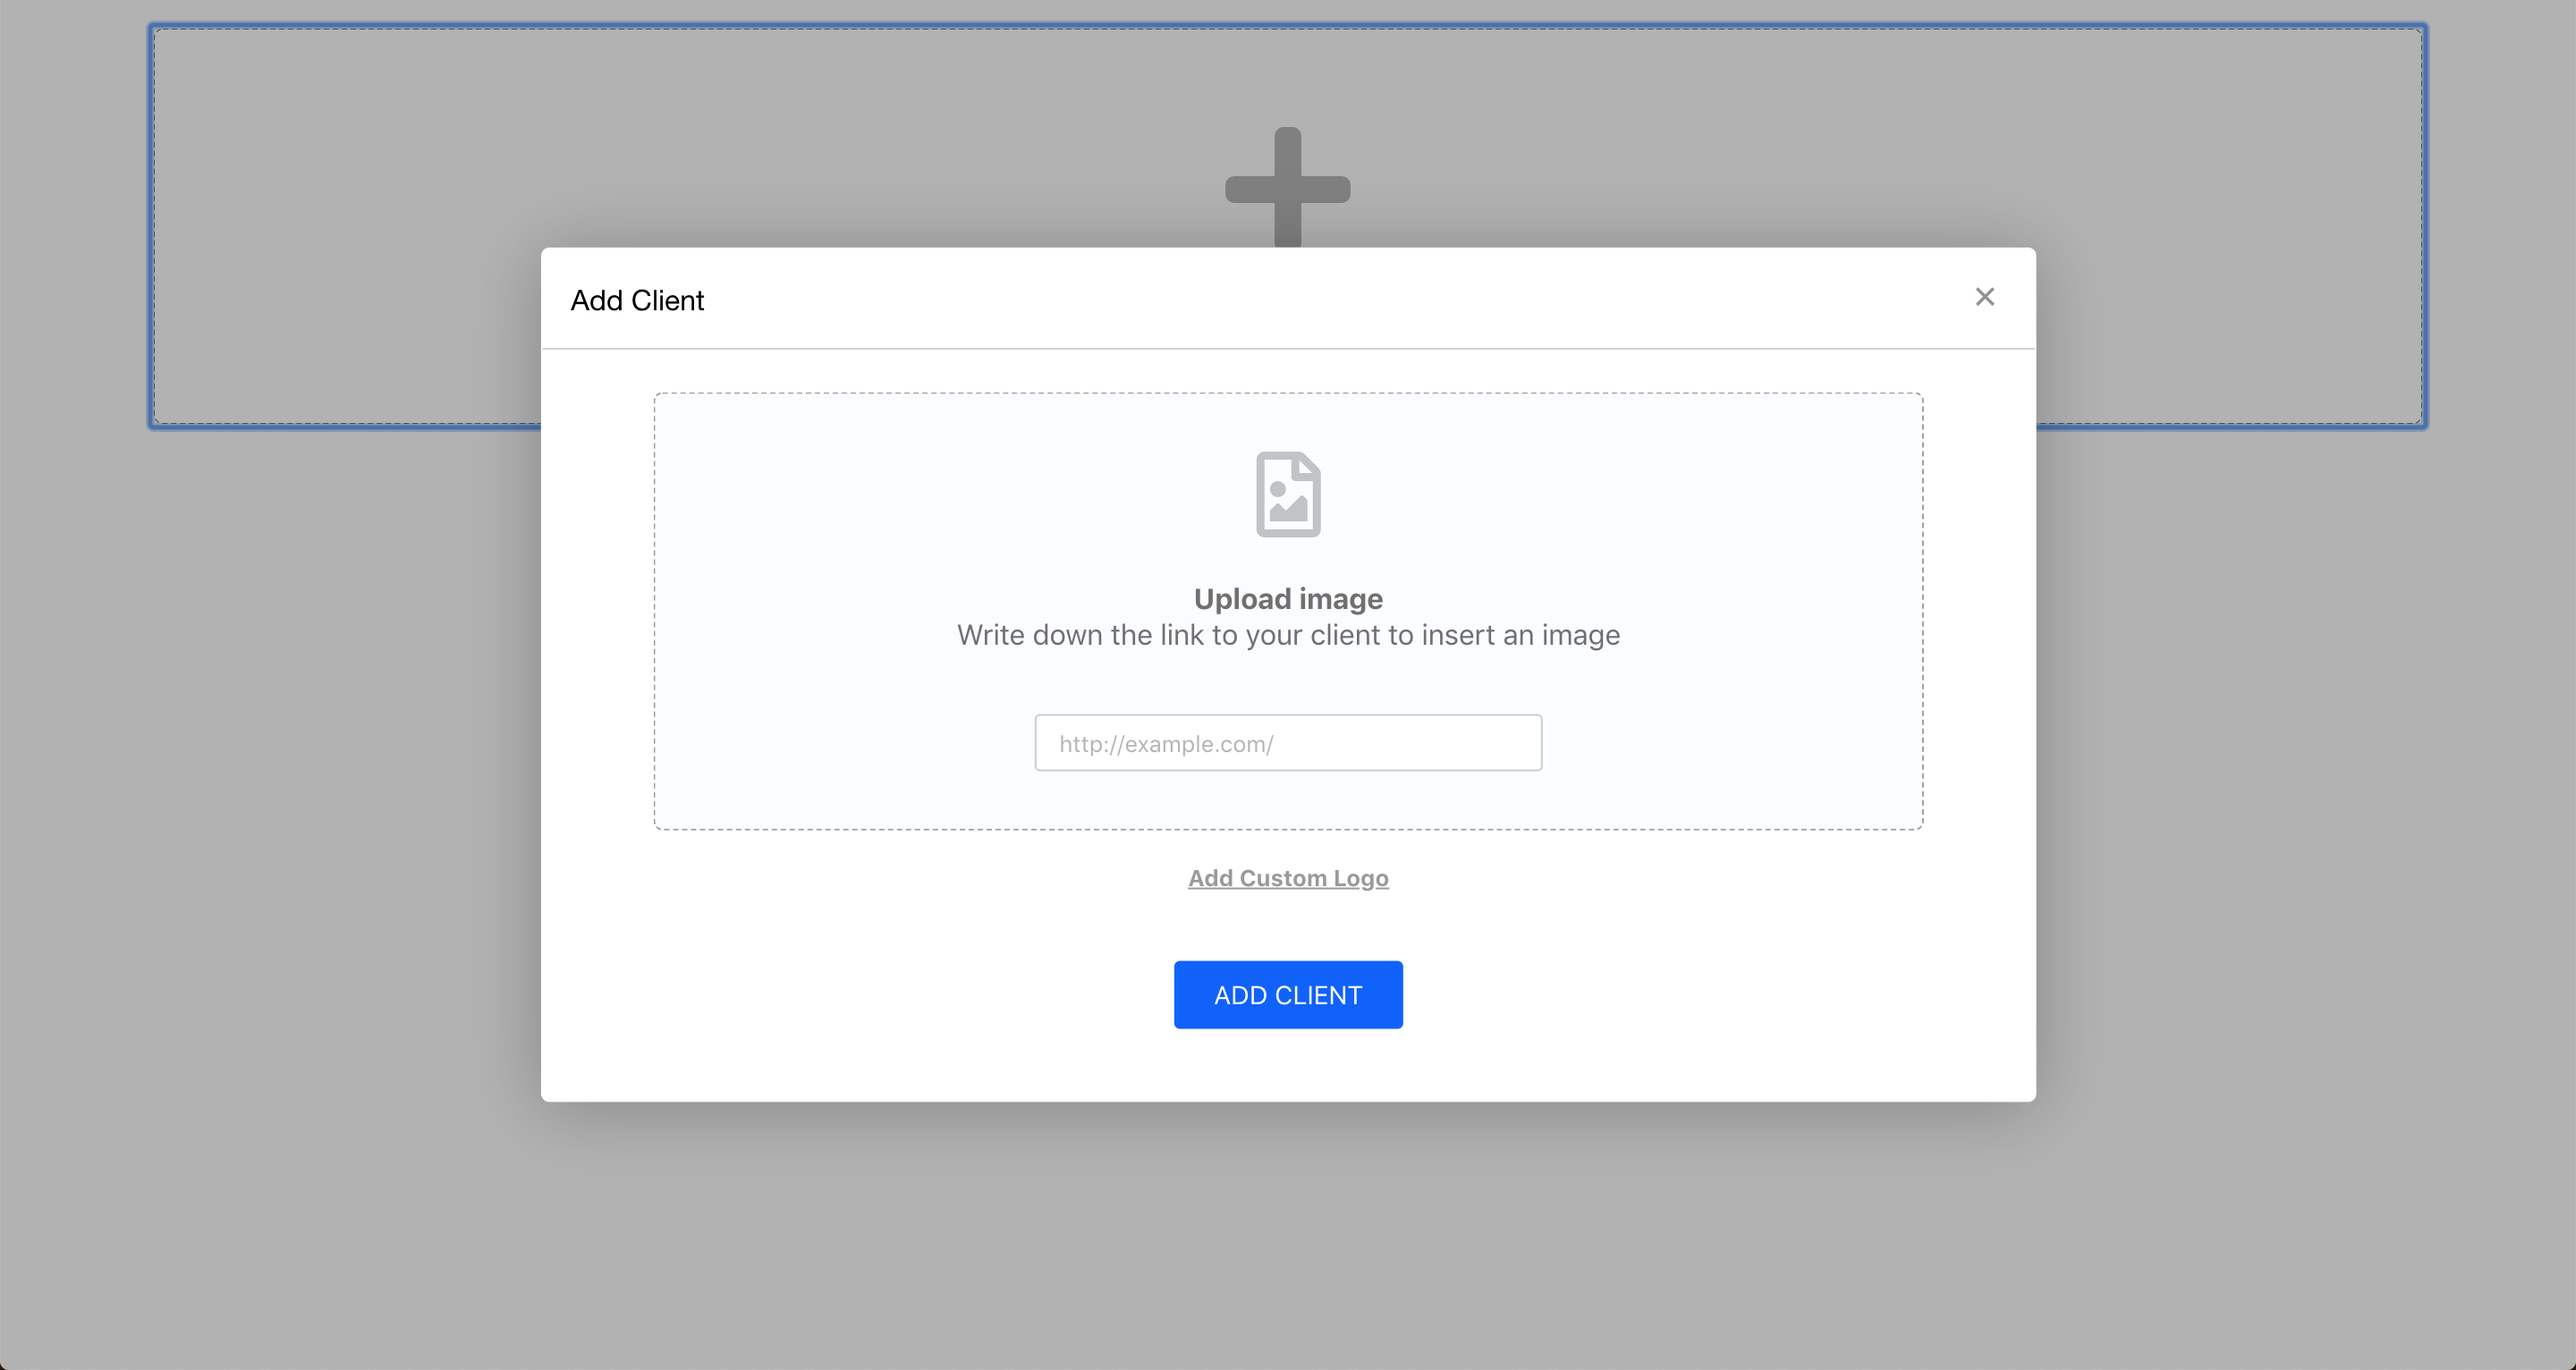
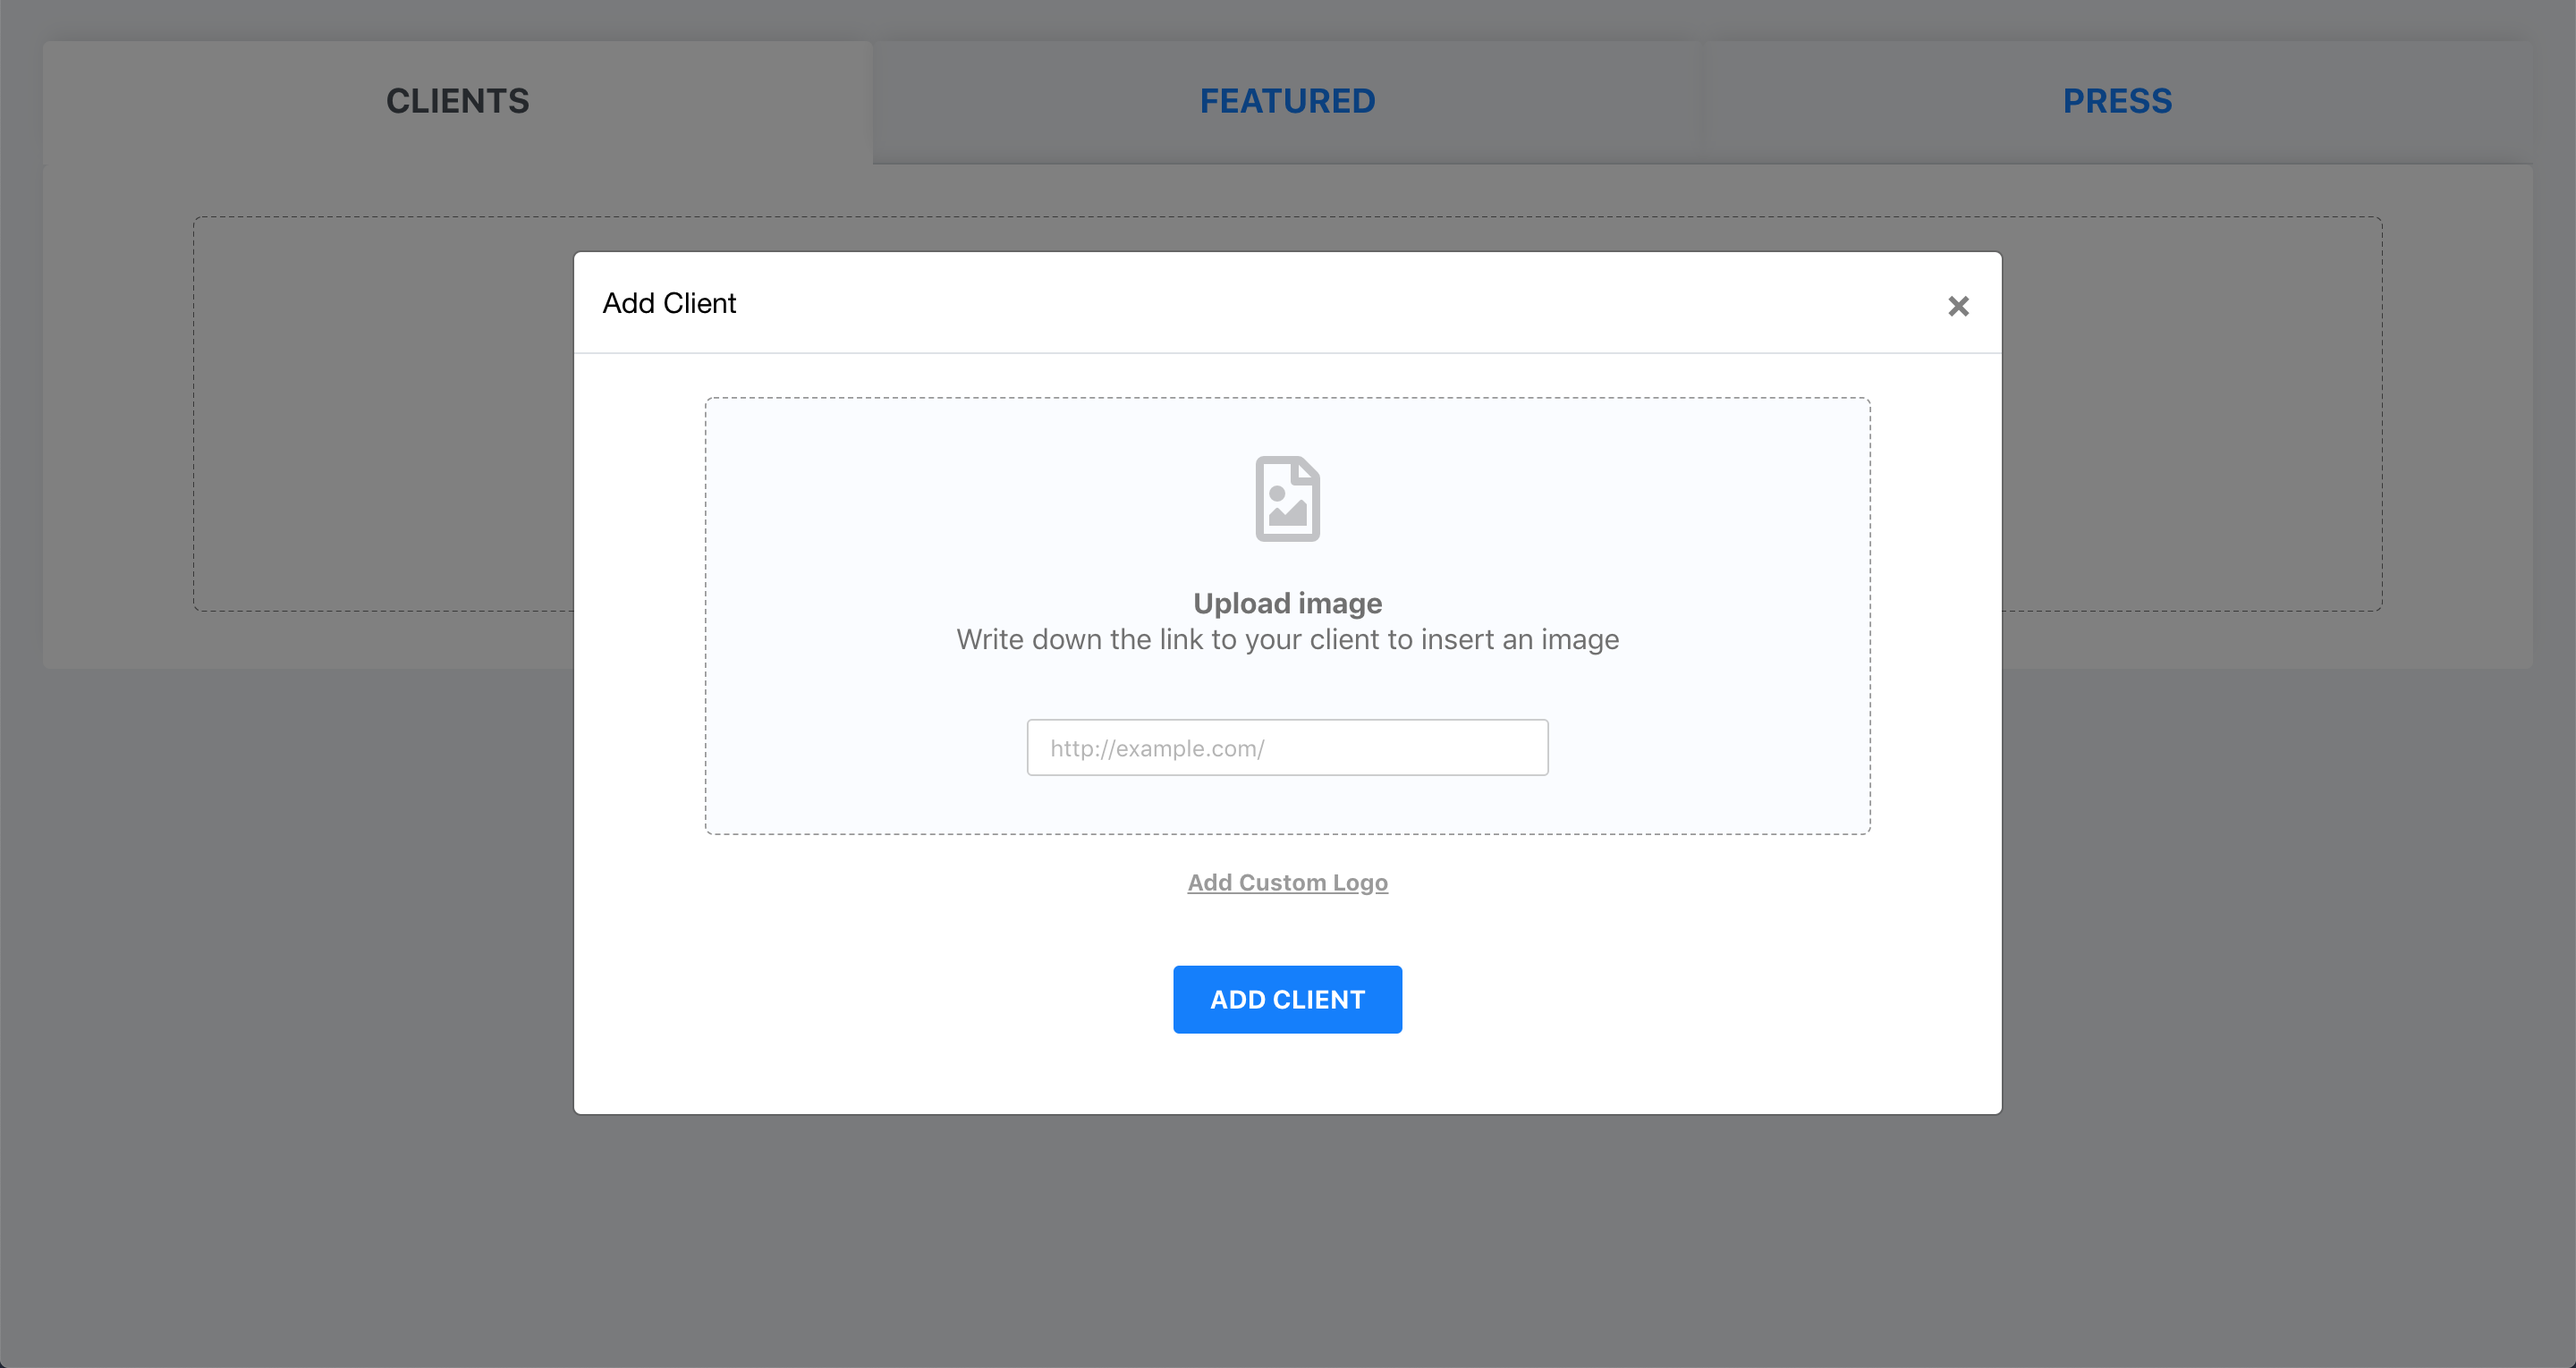
refine design

diff --git a/public/elements.css b/public/elements.css
@@ -1,7 +1,7 @@
 body{
     font-family: HelveticaNeue;
     margin: 1.5em !important;
-    background-color: #f4f4f4 !important;
+    background-color: #F2F4F7 !important;
 }
 
 /*nav*/
@@ -14,7 +14,9 @@ body{
 }
 
 .nav-tabs .nav-item{
-    margin-bottom: -.1em !important;
+    margin-bottom: -1px !important;
+    box-shadow: 0px -6px 12px -4px rgba(117, 117, 117, 0.2);
+    z-index: 100;
 }
 
 a:hover {
@@ -27,6 +29,8 @@ a:hover {
     border-radius: .25em;
     padding-bottom: 2em;
     padding-top: .8em;
+    box-shadow: 0px -6px 12px -6px rgba(117, 117, 117, 0.3);
+    z-index: 100;
 }
 
 /* Add button on home */

diff --git a/README.md b/README.md
@@ -1,7 +1,8 @@
 # ReactJs_imageUpload
 Created image uploading page with ReactJS
 
-![Preview](https://github.com/DaYeonHan/ReactJs_imageUpload/blob/master/src/image/2.png "Preview.png")
+![Preview](https://github.com/DaYeonHan/ReactJs_imageUpload/blob/master/src/image/1.png "Preview1.png")
+![Preview](https://github.com/DaYeonHan/ReactJs_imageUpload/blob/master/src/image/2.png "Preview2.png")
 
 
 Next things to do
